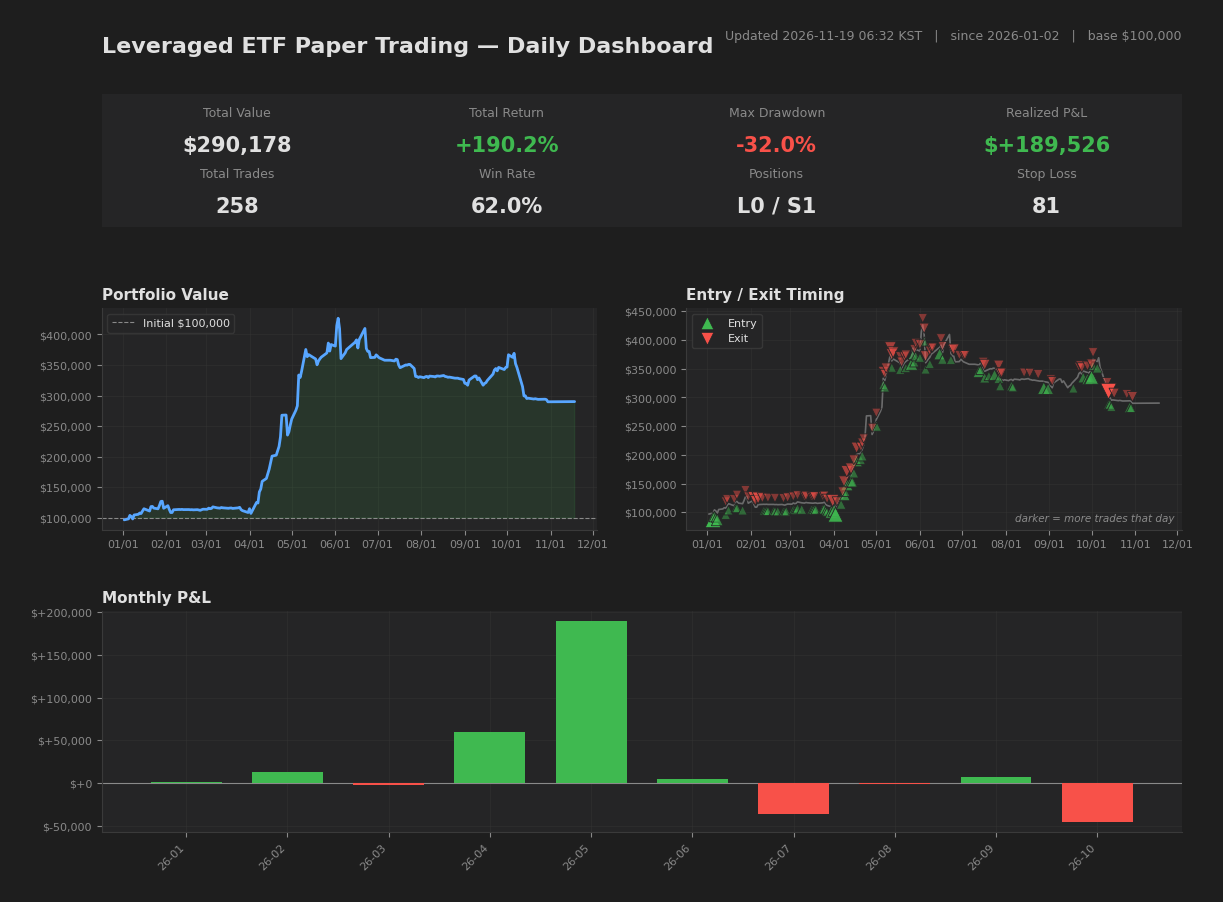
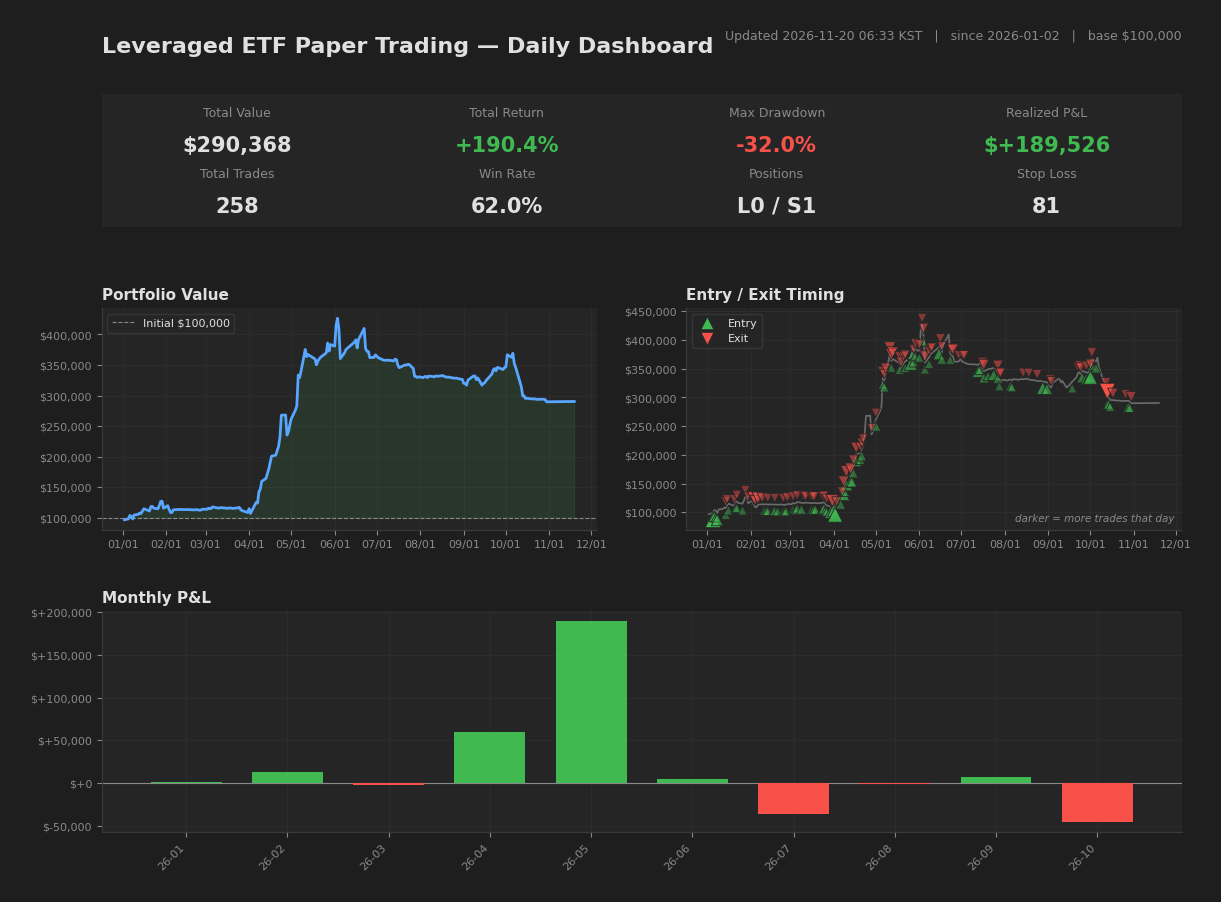
[2026-11-19] Close
Portfolio: $290,368 (+190.4%)
Positions: 1 (L0 S1)
Cumulative: 160/258 wins, P&L: $+189,526

diff --git a/README.md b/README.md
@@ -20,7 +20,7 @@ Drawdown control vs. benchmark. While the benchmark experienced a maximum drawdo
 
 <!-- METRICS:BEGIN (auto-generated by snapshot_backup.py after each market close; do not edit by hand) -->
 - Maximum drawdown: **-32.02%** (peak 2026-06-03 -> trough 2026-10-30, recovered since)
-- As of **2026-11-18** market close. Updated automatically after each close.
+- As of **2026-11-19** market close. Updated automatically after each close.
 <!-- METRICS:END -->
 
 Execution costs. Because the strategy holds positions over multi-day periods with low turnover, the impact of slippage and commissions is designed to be limited rather than a primary driver of results.
